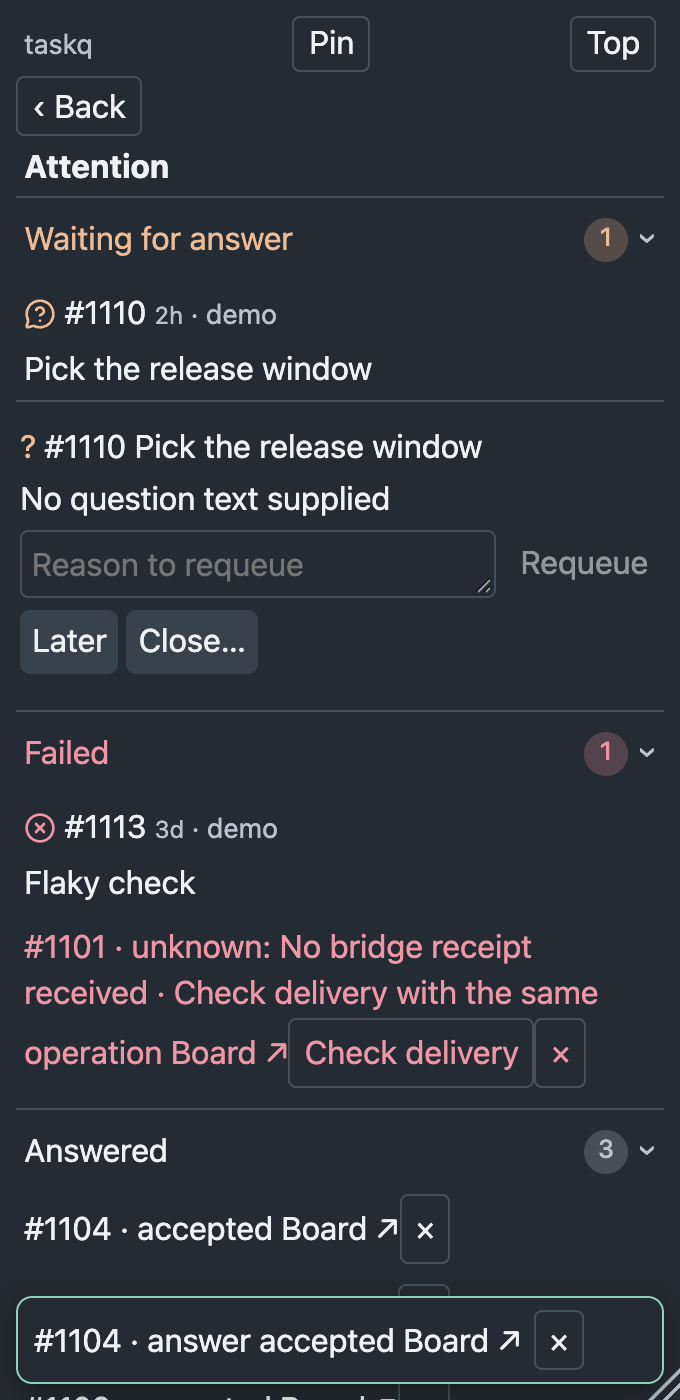
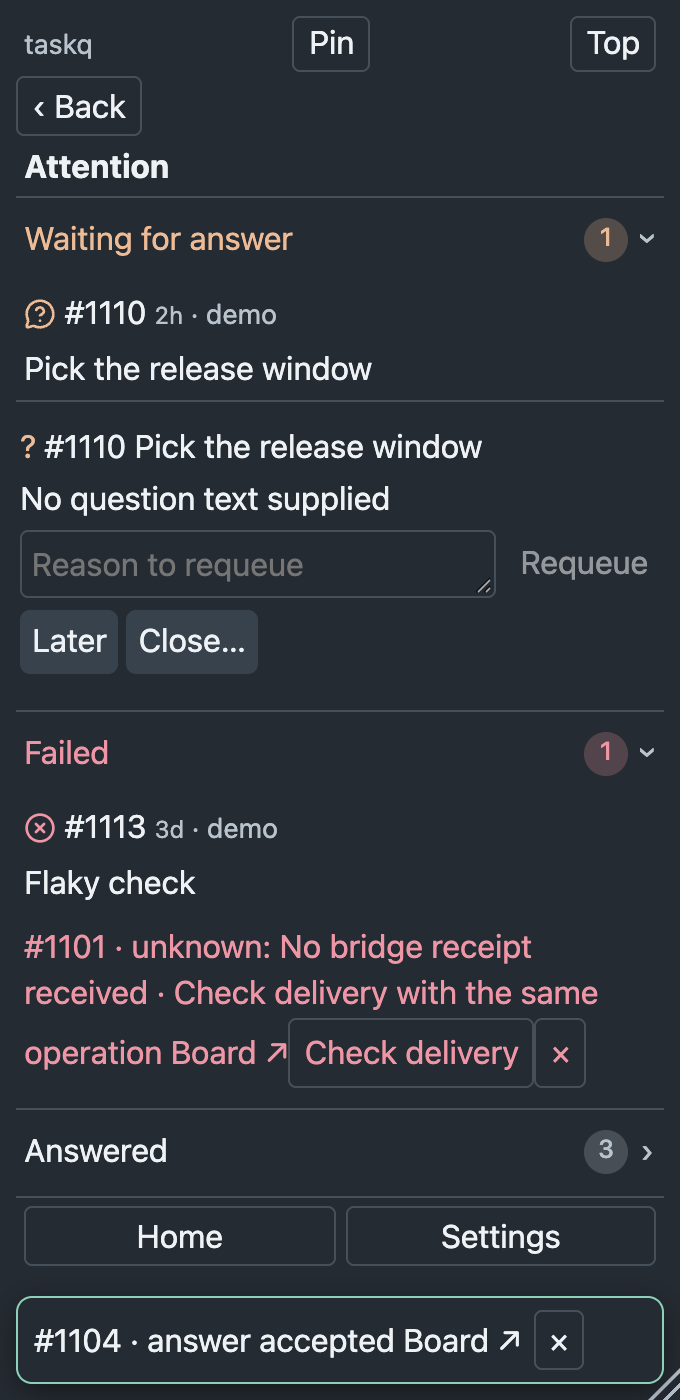
Keep Answered collapsed when Attention opens
Opening Attention applied its open-by-default to every group, Answered
included. Answered now defaults to collapsed; explicit toggles still
survive refresh and Back. Browser case added; evidence refreshed.

Task: https://github.com/taskqorg/taskq/issues/1148

Claude-Session: https://claude.ai/code/session_01J6NHyX8qvoaydfPKE1TkXh

Changed region(s): [[0.0309, 0.86, 0.8338, 0.9214], [0.9265, 0.7986, 0.9574, 0.8293]]

diff --git a/src/tray-app.js b/src/tray-app.js
@@ -175,7 +175,7 @@ answerNotices:function(board){
   const {line}=execution.module("tray.create.answerNotices.helpers",{line:([key,r],role)=>'<div class="body'+(r.state==='accepted'?'':' alert')+'"'+role+'>#'+r.op.task+' · '+esc(r.state)+(r.reason?': '+esc(r.reason):'')+(r.next?' · '+esc(r.next):'')+' <a href="'+esc(r.board+'/'+r.op.task)+'" data-url="'+esc(r.board+'/'+r.op.task)+'">Board ↗</a>'+(r.state==='unknown'?'<button data-a="answer-retry" data-key="'+esc(key)+'">Check delivery</button>':'')+(answerRequests.has(key)?'':'<button data-a="answer-dismiss" data-key="'+esc(key)+'" aria-label="Dismiss #'+r.op.task+' receipt" title="Dismiss">×</button>')+'</div>'});
   const shown=[...answerFeedback].filter(([,r])=>(!board||r.board===board)&&!view.S.projects.some(p=>p.issues===r.board&&p.tasks.some(t=>t.n===r.op.task&&t.state==='ask')));
   const answered=shown.filter(([,r])=>r.state==='accepted').reverse();
-  return shown.filter(([,r])=>r.state!=='accepted').map(x=>line(x,' role="status"')).join('')+(answered.length?'<details class="group"><summary>Answered'+counter(answered.length,'muted','Answered')+'</summary>'+answered.map(x=>line(x,'')).join('')+'</details>':'');
+  return shown.filter(([,r])=>r.state!=='accepted').map(x=>line(x,' role="status"')).join('')+(answered.length?'<details class="group answered"><summary>Answered'+counter(answered.length,'muted','Answered')+'</summary>'+answered.map(x=>line(x,'')).join('')+'</details>':'');
 },
 answerToast:function(){
   const r=view.toast&&answerFeedback.get(view.toast);
@@ -441,7 +441,7 @@ const focusAt=focusKey?[...menu.querySelectorAll(active.tagName)].filter(same).i
   const title=view.working?'Work mode':view.taskFilter?'Tasks':p?p.name:routes[view.page];
   menu.innerHTML=head()+actionNotices()+(view.page!=='home'||view.working||view.taskFilter?'<button data-a="back">‹ Back</button>':'')+'<h1 tabindex="-1">'+esc(title)+'</h1>'+(view.S.settings_error?'<div class="body alert" role="alert">Settings unknown: '+esc(view.S.settings_error)+'; defaults shown</div>':'')+(view.working?workPage():view.taskFilter?filteredTasks(p):p?project(p):routeBody())+'<div class="grip" data-resize="" role="button" aria-label="Resize window with arrow keys" tabindex="0"></div><nav class="options footer" aria-label="Menu"><button data-route="home">Home</button><button data-route="settings">Settings</button></nav>'+answerToast();
   mountAnswers();mountResources();
-  menu.querySelectorAll('details').forEach((d,i)=>d.open=open[i]??(['cadence','agents','services','attention'].includes(view.page)));
+  menu.querySelectorAll('details').forEach((d,i)=>d.open=open[i]??(!d.classList.contains('answered')&&['cadence','agents','services','attention'].includes(view.page)));
   if(view.S.page!==undefined)menu.querySelectorAll('.hist,.agents,.service,.incident-notice').forEach(d=>d.open=true);
   const restored=answerFocus&&menu.querySelector('[data-answer="'+CSS.escape(answerFocus.dataset.answer)+'"] '+answerSelector);
   if(restored&&!navigating){restored.focus({preventScroll:true});if(caret)restored.setSelectionRange(...caret);}
